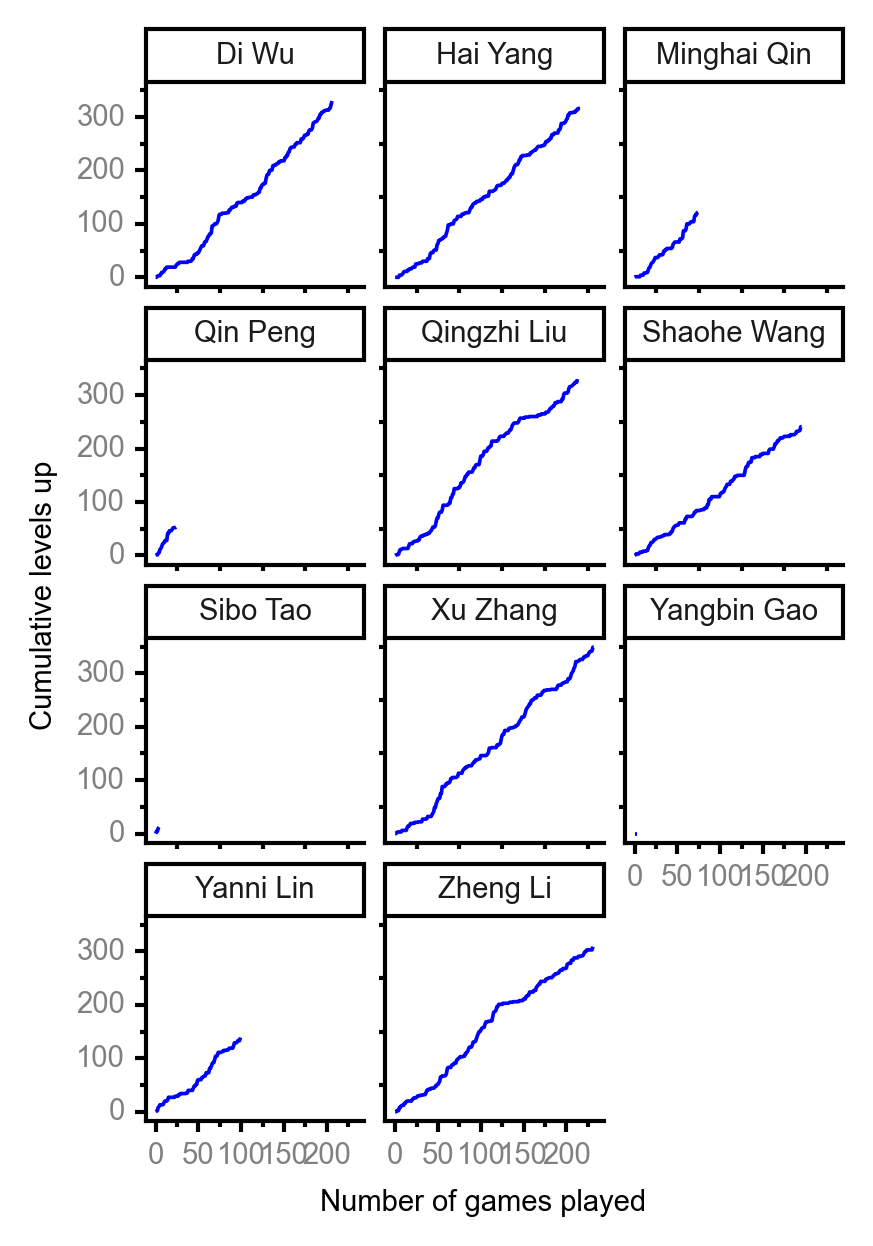
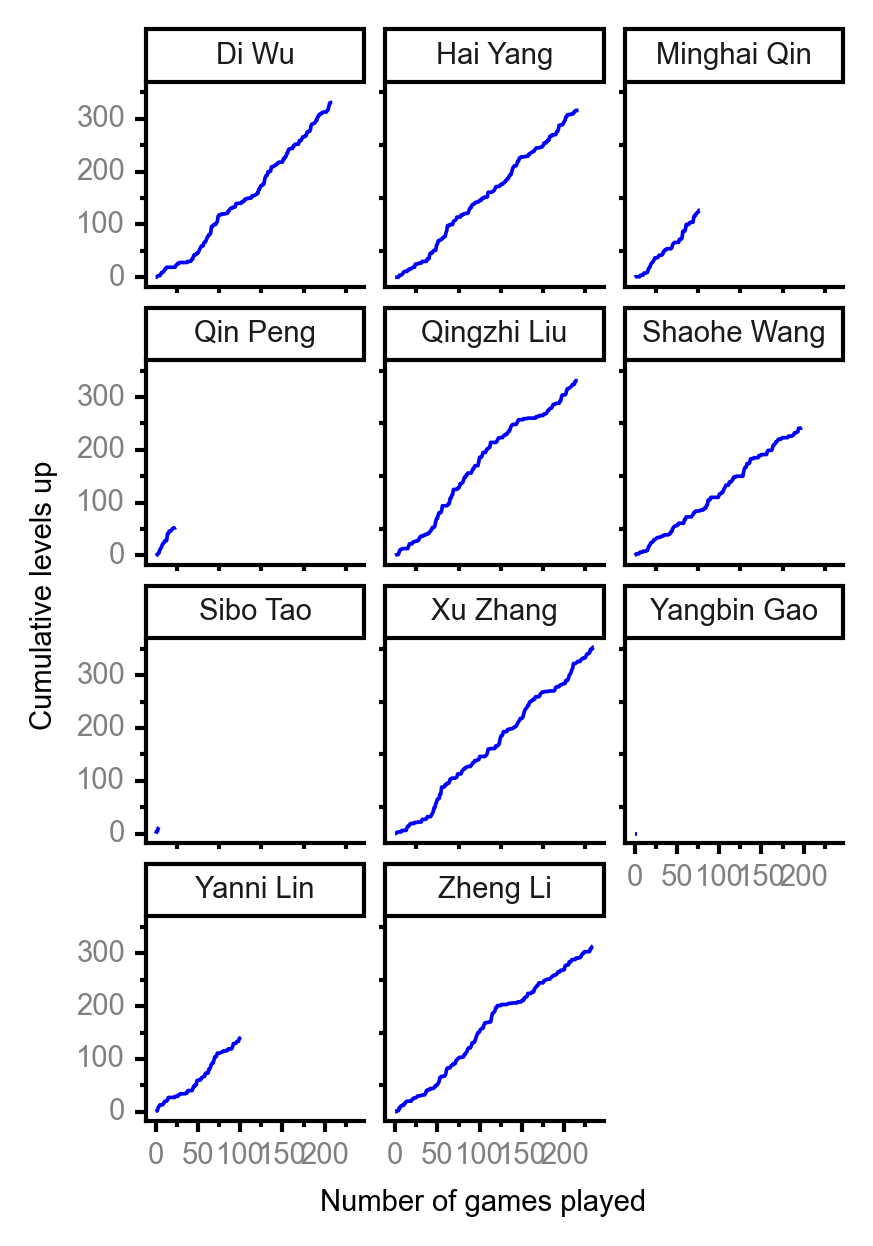
update player stats

diff --git a/player_stats.md b/player_stats.md
@@ -3,7 +3,7 @@ layout: player_stats
 title: Player Statistics
 author: Shaohe Wang
 author_url: https://scholar.google.com/citations?user=R_-kJV4AAAAJ&hl=en
-date: 2021-04-10
+date: 2021-04-17
 ---
 
 #### [Spreadsheet](https://docs.google.com/spreadsheets/d/1So3PBr9gV3I0LzApZOgJlQew2QjM1wAiWhR50rAnHRg/edit#gid=2137801449)
@@ -14,14 +14,14 @@ date: 2021-04-10
 
 | <br><br><br>Rank | <br><br><br>Player | <br> Lifetime <br> levels <br> up | <br><br> Winning <br> rate | <br> Average <br> levels <br> up | <br> Total <br> games <br> played | Games <br> played <br> as <br> MVP | Games <br> played <br> as <br> dealer | N_games <br> short <br> staffed <br> as dealer | Winning <br> rate <br> as <br> dealer |
 |:---:|:---:|:---:|:---:|:---:|:---:|:---:|:---:|:---:|:---:|
-| 1 | Xu <br> Zhang | 349 | 53.2% | 2.81 | 233 | 17 | 43 | 1 | 51.2% |
-| 2 | Qingzhi <br> Liu | 331 | 52.3% | 2.96 | 214 | 11 | 37 | 4 | 48.6% |
-| 3 | Di <br> Wu | 331 | 50.2% | 3.18 | 207 | 19 | 37 | 0 | 40.5% |
-| 4 | Hai <br> Yang | 316 | 50.2% | 2.90 | 217 | 20 | 38 | 1 | 50.0% |
-| 5 | Zheng <br> Li | 309 | 52.6% | 2.53 | 232 | 8 | 36 | 1 | 58.3% |
-| 6 | Shaohe <br> Wang | 241 | 43.4% | 2.84 | 196 | 10 | 30 | 2 | 43.3% |
-| 7 | Yanni <br> Lin | 140 | 47.0% | 2.98 | 100 | 10 | 10 | 2 | 40.0% |
-| 8 | Minghai <br> Qin | 123 | 53.3% | 3.08 | 75 | 1 | 11 | 1 | 72.7% |
+| 1 | Xu <br> Zhang | 357 | 53.4% | 2.83 | 236 | 17 | 43 | 1 | 51.2% |
+| 2 | Qingzhi <br> Liu | 335 | 52.1% | 2.96 | 217 | 11 | 38 | 4 | 47.4% |
+| 3 | Di <br> Wu | 331 | 49.5% | 3.18 | 210 | 19 | 37 | 0 | 40.5% |
+| 4 | Hai <br> Yang | 320 | 50.5% | 2.91 | 218 | 20 | 38 | 1 | 50.0% |
+| 5 | Zheng <br> Li | 314 | 52.8% | 2.53 | 235 | 9 | 37 | 1 | 59.5% |
+| 6 | Shaohe <br> Wang | 246 | 43.7% | 2.83 | 199 | 11 | 31 | 2 | 45.2% |
+| 7 | Yanni <br> Lin | 141 | 47.1% | 2.94 | 102 | 10 | 10 | 2 | 40.0% |
+| 8 | Minghai <br> Qin | 127 | 52.6% | 3.10 | 78 | 1 | 11 | 1 | 72.7% |
 | 9 | Qin <br> Peng | 54 | 72.0% | 3.00 | 25 | 3 | 3 | 0 | 66.7% |
 | 10 | Sibo <br> Tao | 14 | 80.0% | 3.50 | 5 | 0 | 0 | 0 | 0.0% |
 | 11 | Yangbin <br> Gao | 0 | 0.0% | 0.00 | 4 | 0 | 0 | 0 | 0.0% |
